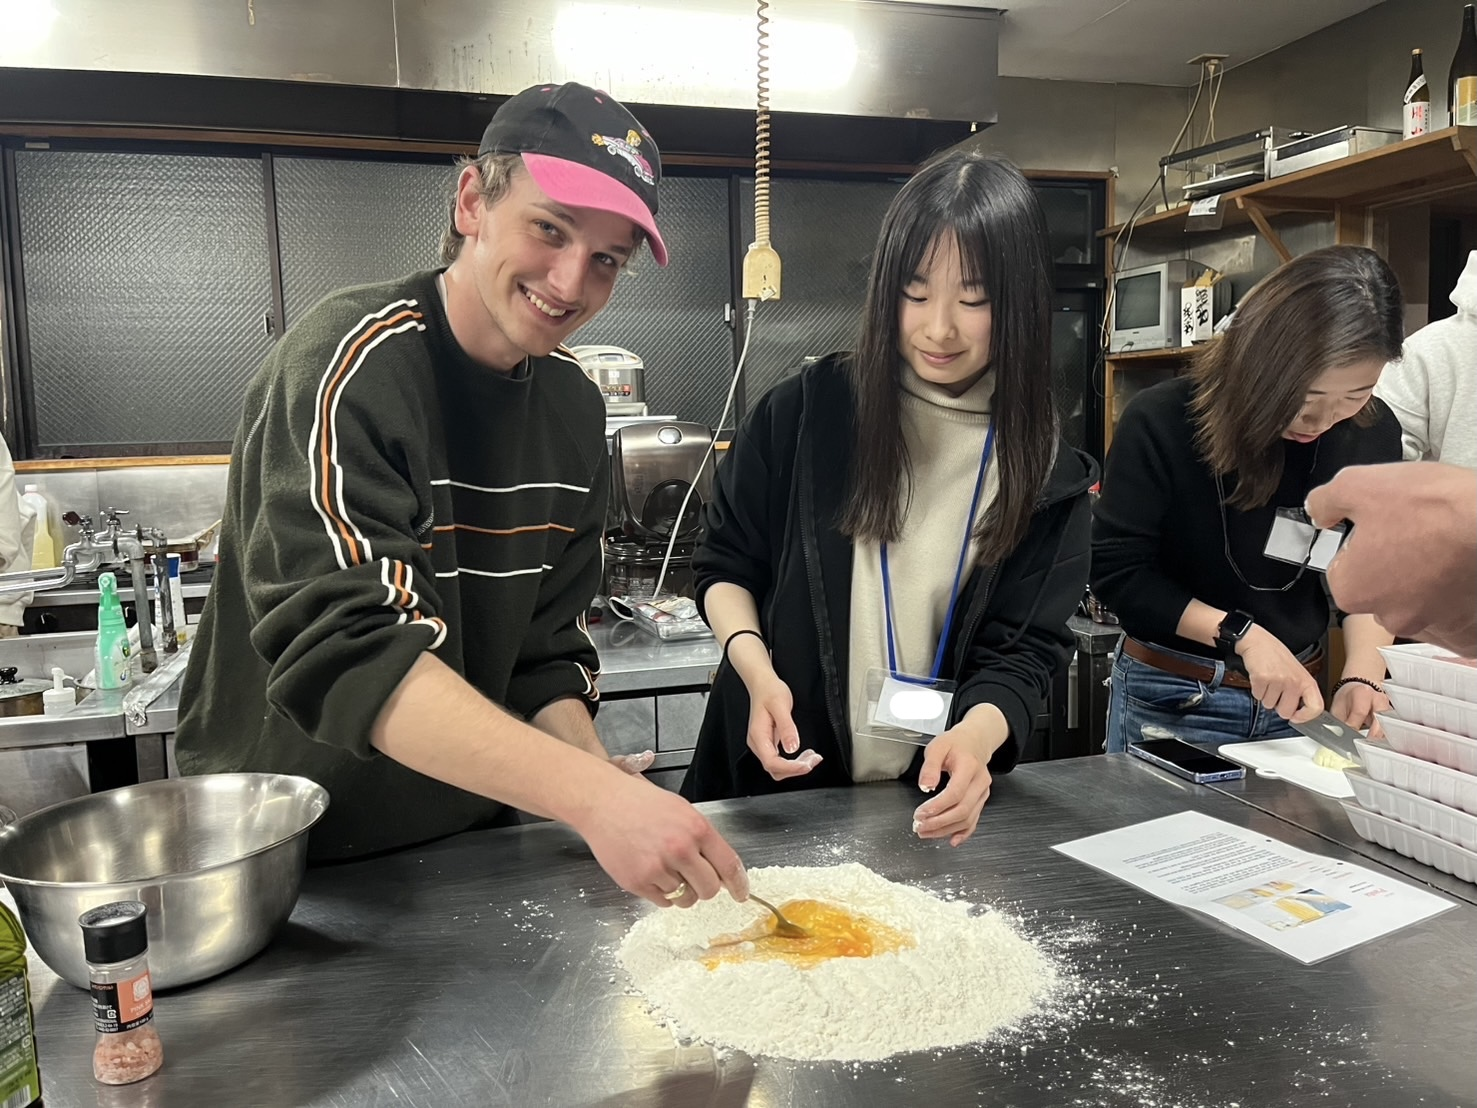
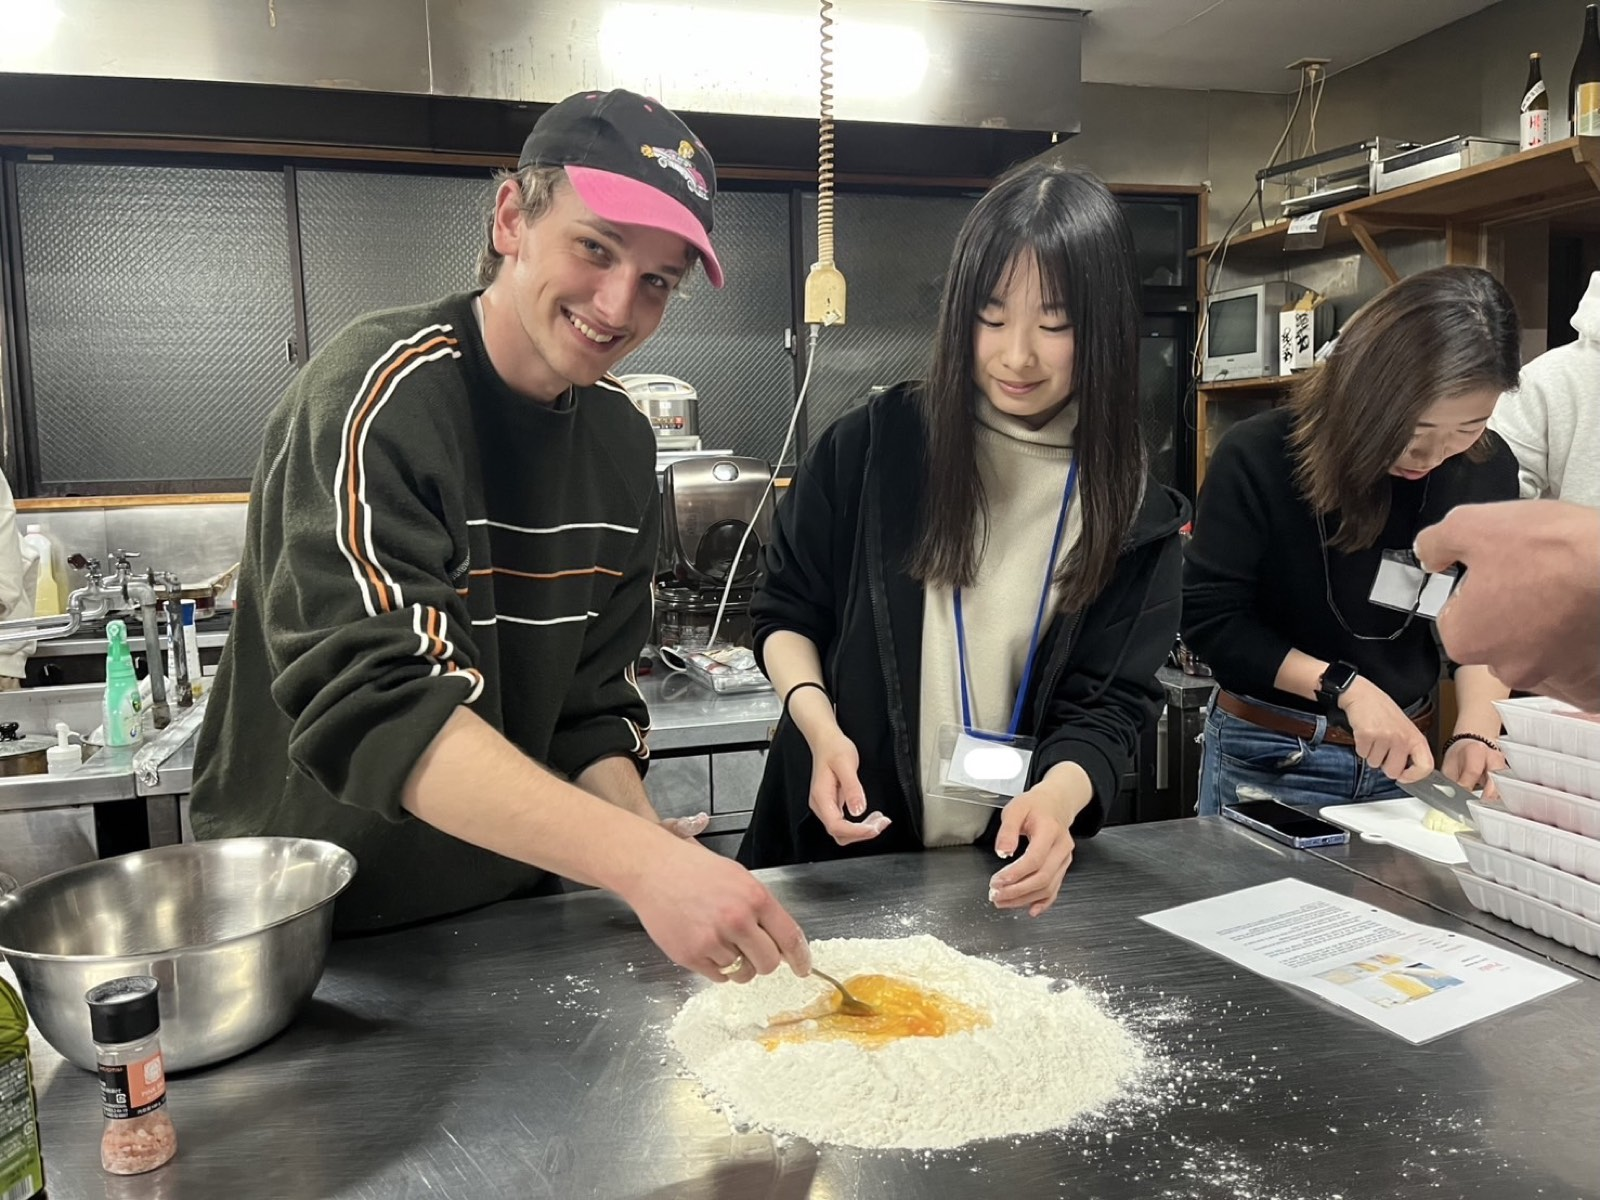
SEO Tier 3: image optimization, sharper titles/descriptions, Course schema
- Optimize oversized JPEGs (resize 4032px camera photos to 1600px +
  recompress, keep-if-smaller guard): ~2.6MB saved, mostly campus-nozawa.
  og-card.jpg and logos left untouched.
- Rewrite titles + meta/OG/Twitter descriptions on courses, campuses,
  why, tokyo-seminar, faq with keyword-rich Japanese (料金/費用, location
  names, ニセコ留学) instead of the old English titles.
- Add Course structured data (ItemList of 3 Course items: ニセコ/野沢/東京)
  to the courses page.

diff --git a/pages/courses.html b/pages/courses.html
@@ -11,8 +11,8 @@
     gtag('config', 'G-82JT87SZ32');
   </script>
   <meta name="viewport" content="width=device-width, initial-scale=1, viewport-fit=cover">
-  <title>Courses and Fees — SPEAKMORE</title>
-  <meta name="description" content="ニセコ集中コース、東京ハイブリッドコース、短期・長期プログラム。各コースの内容と料金をご紹介します。">
+  <title>ニセコ留学・国内留学の料金とコース一覧｜SPEAKMORE</title>
+  <meta name="description" content="ニセコ・東京・野沢温泉で選べる国内留学のコースと料金一覧。1週間の短期からワーホリ準備の長期まで、目的に合わせたプランをご用意。料金・期間・内容を分かりやすくご紹介します。">
 
   <link rel="icon" type="image/svg+xml" href="../assets/img/favicon.svg?v=3">
   <link rel="icon" type="image/png" sizes="32x32" href="../assets/img/favicon-32.png?v=3">
@@ -29,15 +29,117 @@
   <meta property="og:site_name" content="SPEAKMORE">
   <meta property="og:locale" content="ja_JP">
   <meta property="og:url" content="https://speakmore.jp/pages/courses">
-  <meta property="og:title" content="Courses and Fees — SPEAKMORE">
-  <meta property="og:description" content="ニセコ集中コース、東京ハイブリッドコース、短期・長期プログラム。各コースの内容と料金をご紹介します。">
+  <meta property="og:title" content="ニセコ留学・国内留学の料金とコース一覧｜SPEAKMORE">
+  <meta property="og:description" content="ニセコ・東京・野沢温泉で選べる国内留学のコースと料金一覧。1週間の短期からワーホリ準備の長期まで、目的に合わせたプランをご用意。料金・期間・内容を分かりやすくご紹介します。">
   <meta property="og:image" content="https://speakmore.jp/assets/img/og-card.jpg">
   <meta property="og:image:width" content="1200">
   <meta property="og:image:height" content="630">
   <meta name="twitter:card" content="summary_large_image">
-  <meta name="twitter:title" content="Courses and Fees — SPEAKMORE">
-  <meta name="twitter:description" content="ニセコ集中コース、東京ハイブリッドコース、短期・長期プログラム。各コースの内容と料金をご紹介します。">
+  <meta name="twitter:title" content="ニセコ留学・国内留学の料金とコース一覧｜SPEAKMORE">
+  <meta name="twitter:description" content="ニセコ・東京・野沢温泉で選べる国内留学のコースと料金一覧。1週間の短期からワーホリ準備の長期まで、目的に合わせたプランをご用意。料金・期間・内容を分かりやすくご紹介します。">
   <meta name="twitter:image" content="https://speakmore.jp/assets/img/og-card.jpg">
+  <!-- Course structured data -->
+  <script type="application/ld+json">
+  {
+    "@context": "https://schema.org",
+    "@type": "ItemList",
+    "itemListElement": [
+      {
+        "@type": "ListItem",
+        "position": 1,
+        "item": {
+          "@type": "Course",
+          "name": "ニセコ留学",
+          "description": "北海道ニセコで暮らしながら学ぶ国内留学。ネイティブ講師の少人数レッスンと、街全体が英語環境のイマージョン体験。週あたり¥99,000〜。",
+          "url": "https://speakmore.jp/pages/courses",
+          "inLanguage": "ja",
+          "provider": {
+            "@type": "EducationalOrganization",
+            "name": "SPEAKMORE",
+            "url": "https://speakmore.jp/"
+          },
+          "offers": {
+            "@type": "Offer",
+            "price": "99000",
+            "priceCurrency": "JPY",
+            "availability": "https://schema.org/InStock",
+            "url": "https://speakmore.jp/pages/courses"
+          },
+          "hasCourseInstance": {
+            "@type": "CourseInstance",
+            "courseMode": "Onsite",
+            "location": {
+              "@type": "Place",
+              "name": "ニセコ（北海道）"
+            }
+          }
+        }
+      },
+      {
+        "@type": "ListItem",
+        "position": 2,
+        "item": {
+          "@type": "Course",
+          "name": "野沢留学",
+          "description": "長野・野沢温泉で暮らしながら学ぶ国内留学。インバウンドで賑わう温泉街を活かした英語イマージョン環境。週あたり¥99,000〜。",
+          "url": "https://speakmore.jp/pages/courses",
+          "inLanguage": "ja",
+          "provider": {
+            "@type": "EducationalOrganization",
+            "name": "SPEAKMORE",
+            "url": "https://speakmore.jp/"
+          },
+          "offers": {
+            "@type": "Offer",
+            "price": "99000",
+            "priceCurrency": "JPY",
+            "availability": "https://schema.org/InStock",
+            "url": "https://speakmore.jp/pages/courses"
+          },
+          "hasCourseInstance": {
+            "@type": "CourseInstance",
+            "courseMode": "Onsite",
+            "location": {
+              "@type": "Place",
+              "name": "野沢温泉（長野）"
+            }
+          }
+        }
+      },
+      {
+        "@type": "ListItem",
+        "position": 3,
+        "item": {
+          "@type": "Course",
+          "name": "東京留学",
+          "description": "東京で通学とオンラインを組み合わせて学ぶハイブリッド英語コース。仕事や学業と両立しながら留学レベルのレッスンを。月額¥110,000〜。",
+          "url": "https://speakmore.jp/pages/courses",
+          "inLanguage": "ja",
+          "provider": {
+            "@type": "EducationalOrganization",
+            "name": "SPEAKMORE",
+            "url": "https://speakmore.jp/"
+          },
+          "offers": {
+            "@type": "Offer",
+            "price": "110000",
+            "priceCurrency": "JPY",
+            "availability": "https://schema.org/InStock",
+            "url": "https://speakmore.jp/pages/courses"
+          },
+          "hasCourseInstance": {
+            "@type": "CourseInstance",
+            "courseMode": "Blended",
+            "location": {
+              "@type": "Place",
+              "name": "東京"
+            }
+          }
+        }
+      }
+    ]
+  }
+  </script>
 </head>
 <body>
 

diff --git a/pages/faq.html b/pages/faq.html
@@ -11,8 +11,8 @@
     gtag('config', 'G-82JT87SZ32');
   </script>
   <meta name="viewport" content="width=device-width, initial-scale=1, viewport-fit=cover">
-  <title>良くあるご質問 — SPEAKMORE</title>
-  <meta name="description" content="ニセコ留学（SPEAKMORE）について、よくいただくご質問をまとめました。短期・長期プログラム、親子留学、滞在施設などについてお答えします。">
+  <title>ニセコ留学のよくあるご質問（料金・期間・滞在）｜SPEAKMORE</title>
+  <meta name="description" content="ニセコ留学（SPEAKMORE）に寄せられるよくあるご質問。短期・長期プログラム、料金、滞在施設、親子留学、英語レベルなどについて分かりやすくお答えします。">
 
   <link rel="icon" type="image/svg+xml" href="../assets/img/favicon.svg?v=3">
   <link rel="icon" type="image/png" sizes="32x32" href="../assets/img/favicon-32.png?v=3">
@@ -29,14 +29,14 @@
   <meta property="og:site_name" content="SPEAKMORE">
   <meta property="og:locale" content="ja_JP">
   <meta property="og:url" content="https://speakmore.jp/pages/faq">
-  <meta property="og:title" content="良くあるご質問 — SPEAKMORE">
-  <meta property="og:description" content="ニセコ留学（SPEAKMORE）について、よくいただくご質問をまとめました。短期・長期プログラム、親子留学、滞在施設などについてお答えします。">
+  <meta property="og:title" content="ニセコ留学のよくあるご質問（料金・期間・滞在）｜SPEAKMORE">
+  <meta property="og:description" content="ニセコ留学（SPEAKMORE）に寄せられるよくあるご質問。短期・長期プログラム、料金、滞在施設、親子留学、英語レベルなどについて分かりやすくお答えします。">
   <meta property="og:image" content="https://speakmore.jp/assets/img/og-card.jpg">
   <meta property="og:image:width" content="1200">
   <meta property="og:image:height" content="630">
   <meta name="twitter:card" content="summary_large_image">
-  <meta name="twitter:title" content="良くあるご質問 — SPEAKMORE">
-  <meta name="twitter:description" content="ニセコ留学（SPEAKMORE）について、よくいただくご質問をまとめました。短期・長期プログラム、親子留学、滞在施設などについてお答えします。">
+  <meta name="twitter:title" content="ニセコ留学のよくあるご質問（料金・期間・滞在）｜SPEAKMORE">
+  <meta name="twitter:description" content="ニセコ留学（SPEAKMORE）に寄せられるよくあるご質問。短期・長期プログラム、料金、滞在施設、親子留学、英語レベルなどについて分かりやすくお答えします。">
   <meta name="twitter:image" content="https://speakmore.jp/assets/img/og-card.jpg">
 </head>
 <body class="page-faq">

diff --git a/pages/why.html b/pages/why.html
@@ -11,8 +11,8 @@
     gtag('config', 'G-82JT87SZ32');
   </script>
   <meta name="viewport" content="width=device-width, initial-scale=1, viewport-fit=cover">
-  <title>Why choose SPEAKMORE — SPEAKMORE</title>
-  <meta name="description" content="ネイティブ講師、会話重視、海外渡航への実践準備、英語学習コミュニティ。SPEAKMOREが選ばれる理由をご紹介します。">
+  <title>SPEAKMOREが選ばれる理由｜ニセコ留学・国内留学</title>
+  <meta name="description" content="ネイティブ講師による少人数・会話重視レッスン、街ぐるみの英語環境、海外渡航への実践準備、学習コミュニティ。ニセコ留学・国内留学でSPEAKMOREが選ばれる理由をご紹介します。">
 
   <link rel="icon" type="image/svg+xml" href="../assets/img/favicon.svg?v=3">
   <link rel="icon" type="image/png" sizes="32x32" href="../assets/img/favicon-32.png?v=3">
@@ -29,14 +29,14 @@
   <meta property="og:site_name" content="SPEAKMORE">
   <meta property="og:locale" content="ja_JP">
   <meta property="og:url" content="https://speakmore.jp/pages/why">
-  <meta property="og:title" content="Why choose SPEAKMORE — SPEAKMORE">
-  <meta property="og:description" content="ネイティブ講師、会話重視、海外渡航への実践準備、英語学習コミュニティ。SPEAKMOREが選ばれる理由をご紹介します。">
+  <meta property="og:title" content="SPEAKMOREが選ばれる理由｜ニセコ留学・国内留学">
+  <meta property="og:description" content="ネイティブ講師による少人数・会話重視レッスン、街ぐるみの英語環境、海外渡航への実践準備、学習コミュニティ。ニセコ留学・国内留学でSPEAKMOREが選ばれる理由をご紹介します。">
   <meta property="og:image" content="https://speakmore.jp/assets/img/og-card.jpg">
   <meta property="og:image:width" content="1200">
   <meta property="og:image:height" content="630">
   <meta name="twitter:card" content="summary_large_image">
-  <meta name="twitter:title" content="Why choose SPEAKMORE — SPEAKMORE">
-  <meta name="twitter:description" content="ネイティブ講師、会話重視、海外渡航への実践準備、英語学習コミュニティ。SPEAKMOREが選ばれる理由をご紹介します。">
+  <meta name="twitter:title" content="SPEAKMOREが選ばれる理由｜ニセコ留学・国内留学">
+  <meta name="twitter:description" content="ネイティブ講師による少人数・会話重視レッスン、街ぐるみの英語環境、海外渡航への実践準備、学習コミュニティ。ニセコ留学・国内留学でSPEAKMOREが選ばれる理由をご紹介します。">
   <meta name="twitter:image" content="https://speakmore.jp/assets/img/og-card.jpg">
 </head>
 <body>

diff --git a/pages/tokyo-seminar.html b/pages/tokyo-seminar.html
@@ -11,8 +11,8 @@
     gtag('config', 'G-82JT87SZ32');
   </script>
   <meta name="viewport" content="width=device-width, initial-scale=1, viewport-fit=cover">
-  <title>Tokyo Seminar — SPEAKMORE</title>
-  <meta name="description" content="東京で開催する単発の英語セミナー。毎回テーマが変わる90分・少人数・ネイティブ講師の対面セッション。仕事帰りや週末に通えます。">
+  <title>東京の単発英語セミナー（対面・少人数）｜SPEAKMORE</title>
+  <meta name="description" content="東京で開催する単発の対面英語セミナー。毎回テーマが変わる90分・少人数・ネイティブ講師のセッション。仕事帰りや週末に気軽に参加できます。">
 
   <link rel="icon" type="image/svg+xml" href="../assets/img/favicon.svg?v=3">
   <link rel="icon" type="image/png" sizes="32x32" href="../assets/img/favicon-32.png?v=3">
@@ -29,14 +29,14 @@
   <meta property="og:site_name" content="SPEAKMORE">
   <meta property="og:locale" content="ja_JP">
   <meta property="og:url" content="https://speakmore.jp/pages/tokyo-seminar">
-  <meta property="og:title" content="Tokyo Seminar — SPEAKMORE">
-  <meta property="og:description" content="東京で開催する単発の英語セミナー。毎回テーマが変わる90分・少人数・ネイティブ講師の対面セッション。仕事帰りや週末に通えます。">
+  <meta property="og:title" content="東京の単発英語セミナー（対面・少人数）｜SPEAKMORE">
+  <meta property="og:description" content="東京で開催する単発の対面英語セミナー。毎回テーマが変わる90分・少人数・ネイティブ講師のセッション。仕事帰りや週末に気軽に参加できます。">
   <meta property="og:image" content="https://speakmore.jp/assets/img/og-card.jpg">
   <meta property="og:image:width" content="1200">
   <meta property="og:image:height" content="630">
   <meta name="twitter:card" content="summary_large_image">
-  <meta name="twitter:title" content="Tokyo Seminar — SPEAKMORE">
-  <meta name="twitter:description" content="東京で開催する単発の英語セミナー。毎回テーマが変わる90分・少人数・ネイティブ講師の対面セッション。仕事帰りや週末に通えます。">
+  <meta name="twitter:title" content="東京の単発英語セミナー（対面・少人数）｜SPEAKMORE">
+  <meta name="twitter:description" content="東京で開催する単発の対面英語セミナー。毎回テーマが変わる90分・少人数・ネイティブ講師のセッション。仕事帰りや週末に気軽に参加できます。">
   <meta name="twitter:image" content="https://speakmore.jp/assets/img/og-card.jpg">
 </head>
 <body class="seminar-page">

diff --git a/pages/campuses.html b/pages/campuses.html
@@ -11,8 +11,8 @@
     gtag('config', 'G-82JT87SZ32');
   </script>
   <meta name="viewport" content="width=device-width, initial-scale=1, viewport-fit=cover">
-  <title>Campuses — SPEAKMORE</title>
-  <meta name="description" content="ニセコ (北海道) ・野沢温泉 (長野) ・東京 (関東) の3つのキャンパス。SPEAKMOREの校舎をご紹介します。">
+  <title>ニセコ・東京・野沢温泉の3キャンパス｜国内留学のSPEAKMORE</title>
+  <meta name="description" content="SPEAKMOREの3つのキャンパス（北海道ニセコ・長野野沢温泉・東京）をご紹介。それぞれの街の特徴、施設、学べる環境の違いを写真とともにご覧いただけます。">
 
   <link rel="icon" type="image/svg+xml" href="../assets/img/favicon.svg?v=3">
   <link rel="icon" type="image/png" sizes="32x32" href="../assets/img/favicon-32.png?v=3">
@@ -29,14 +29,14 @@
   <meta property="og:site_name" content="SPEAKMORE">
   <meta property="og:locale" content="ja_JP">
   <meta property="og:url" content="https://speakmore.jp/pages/campuses">
-  <meta property="og:title" content="Campuses — SPEAKMORE">
-  <meta property="og:description" content="ニセコ (北海道) ・野沢温泉 (長野) ・東京 (関東) の3つのキャンパス。SPEAKMOREの校舎をご紹介します。">
+  <meta property="og:title" content="ニセコ・東京・野沢温泉の3キャンパス｜国内留学のSPEAKMORE">
+  <meta property="og:description" content="SPEAKMOREの3つのキャンパス（北海道ニセコ・長野野沢温泉・東京）をご紹介。それぞれの街の特徴、施設、学べる環境の違いを写真とともにご覧いただけます。">
   <meta property="og:image" content="https://speakmore.jp/assets/img/og-card.jpg">
   <meta property="og:image:width" content="1200">
   <meta property="og:image:height" content="630">
   <meta name="twitter:card" content="summary_large_image">
-  <meta name="twitter:title" content="Campuses — SPEAKMORE">
-  <meta name="twitter:description" content="ニセコ (北海道) ・野沢温泉 (長野) ・東京 (関東) の3つのキャンパス。SPEAKMOREの校舎をご紹介します。">
+  <meta name="twitter:title" content="ニセコ・東京・野沢温泉の3キャンパス｜国内留学のSPEAKMORE">
+  <meta name="twitter:description" content="SPEAKMOREの3つのキャンパス（北海道ニセコ・長野野沢温泉・東京）をご紹介。それぞれの街の特徴、施設、学べる環境の違いを写真とともにご覧いただけます。">
   <meta name="twitter:image" content="https://speakmore.jp/assets/img/og-card.jpg">
 </head>
 <body class="page-campuses">
